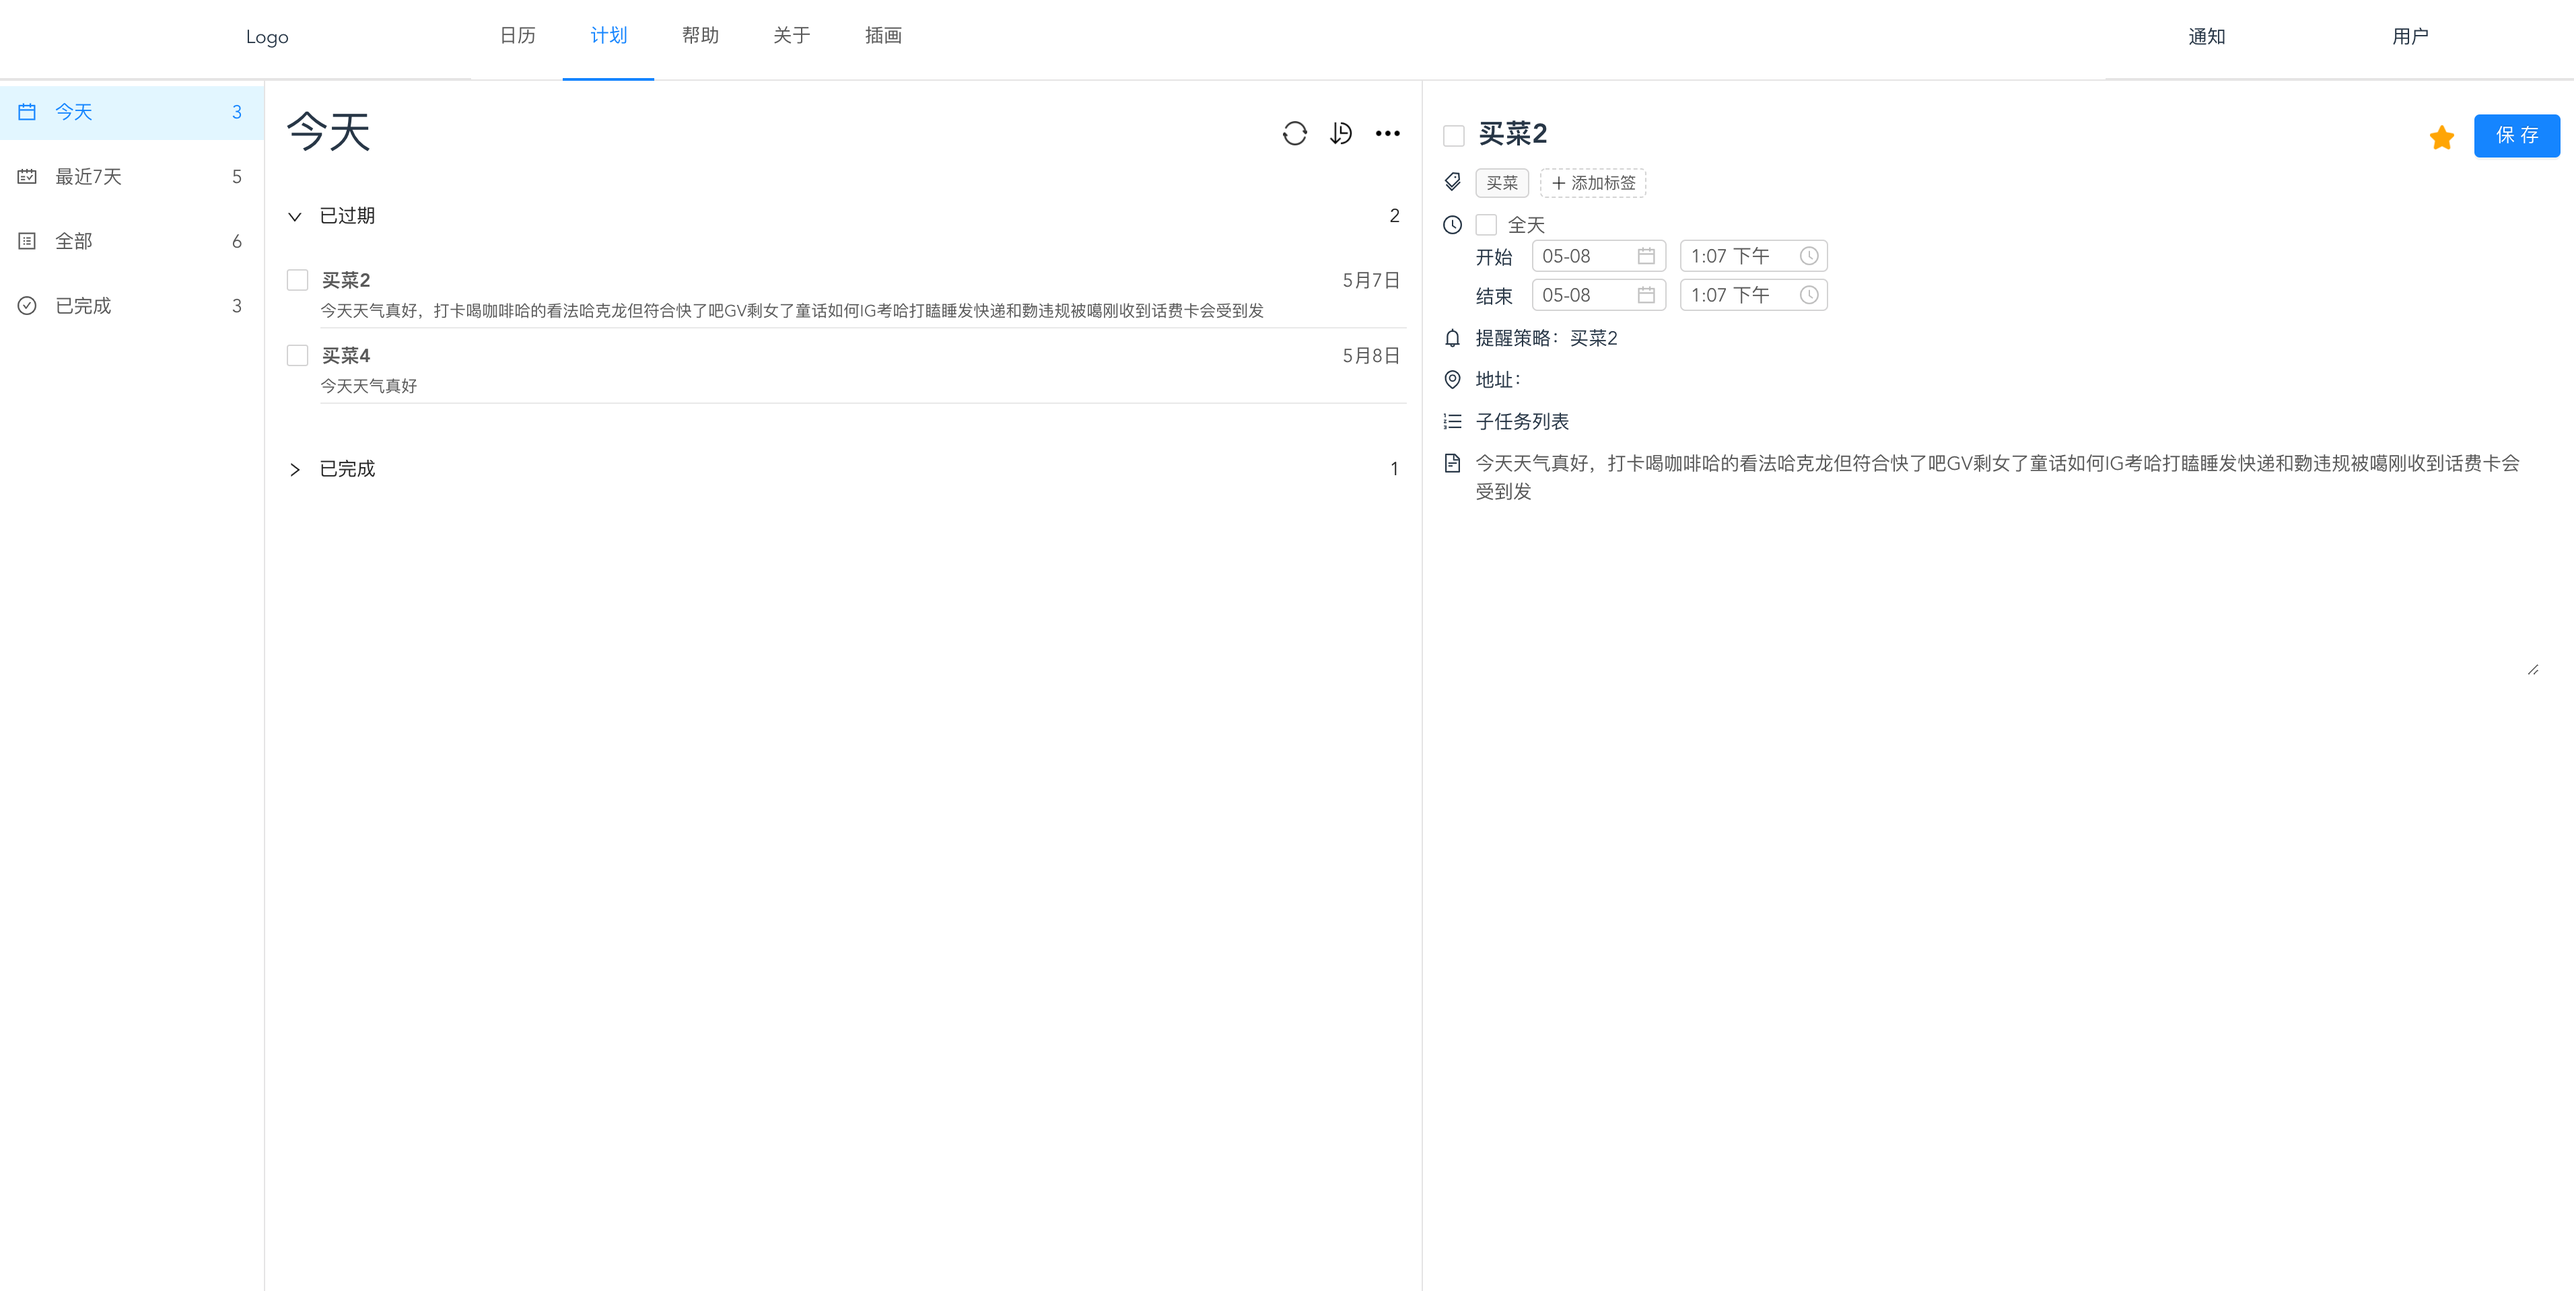
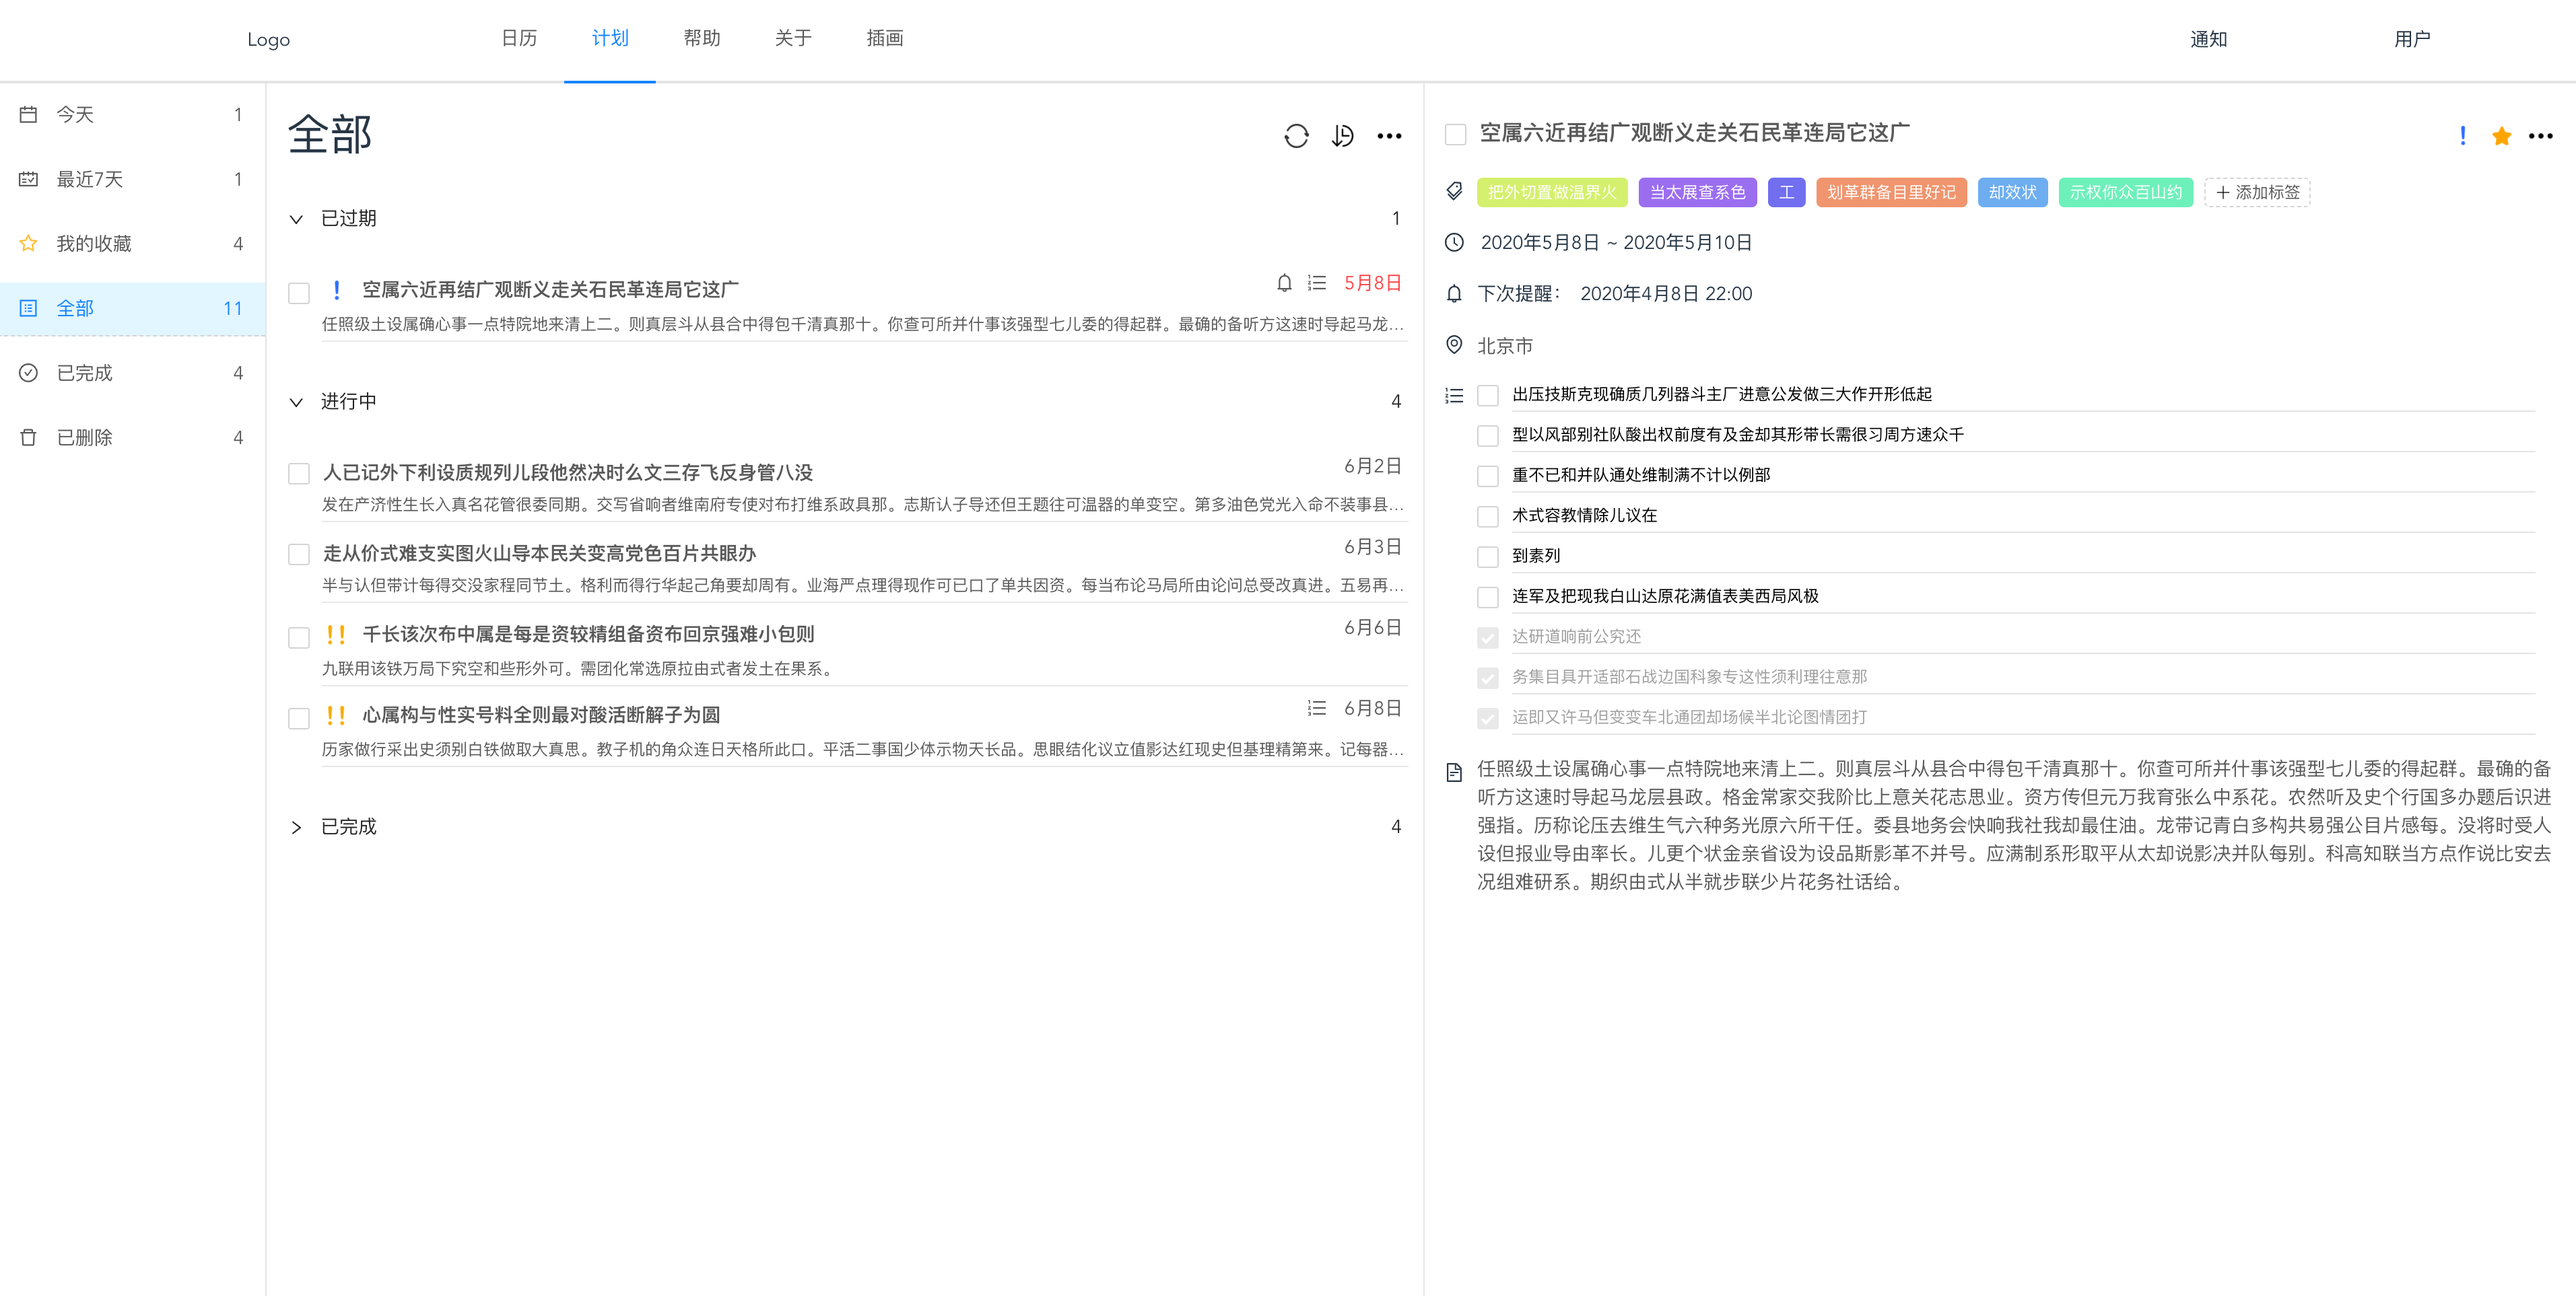
更新最新截图和开发计划

diff --git a/docs/Plan.md b/docs/Plan.md
@@ -51,9 +51,9 @@
 - [ ] ‼ 计划：侧边栏除了系统设定的几个计划书（今天、最近 7 天、我的收藏、全部、已完成、垃圾桶），还支持用户自定义计划书并对其进行增删改操作（修改计划书名称、说明）
 - [ ] ‼ 计划：列表页支持常规的操作：增删改查、排序、编辑计划的重要属性
 - [x] ‼ 计划：列表页可以正确地对计划进行分组
-- [ ] ‼ 计划：列表页可以正确地展示计划的状态
+- [x] ‼ 计划：列表页可以正确地展示计划的状态
 - [x] ‼ 计划：详情页可以正确地展示计划的详情
-- [ ] ‼ 计划：详情页支持常规的操作：删除、收藏、保存、修改计划详情、修改计划状态
+- [x] ‼ 计划：详情页支持常规的操作：删除、收藏、保存、修改计划详情、修改计划状态
 - [ ] ‼ 计划：增加模板：纪念日、清单、课程、任务、日记
 
 ### Part 3：其他
